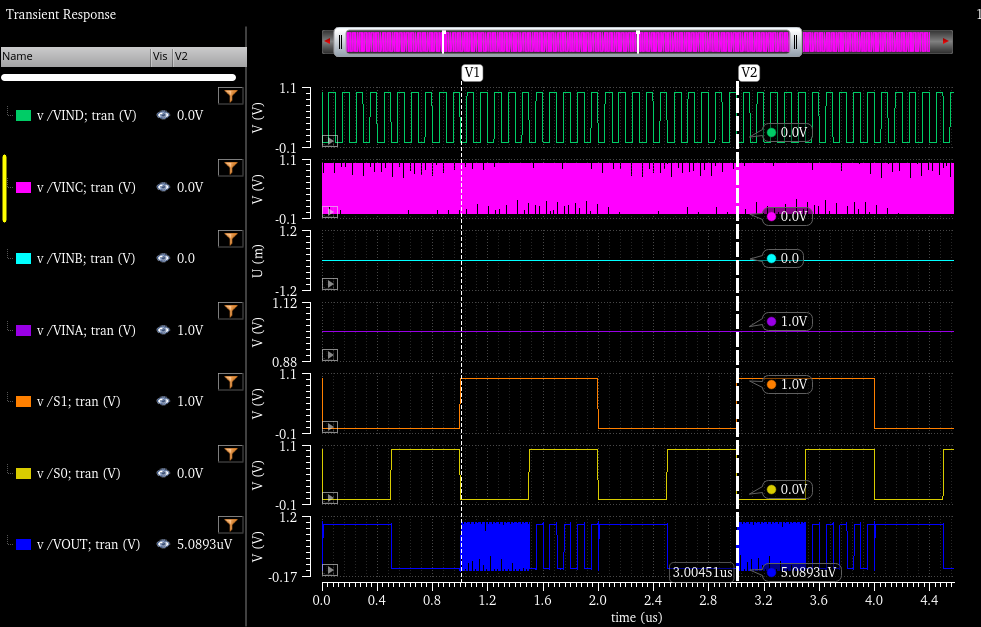
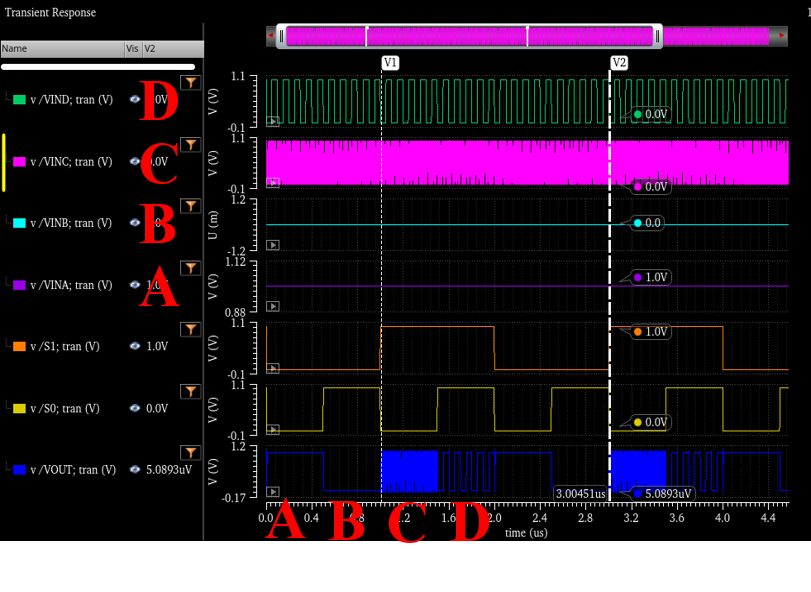
21mux

diff --git a/md/md_DC/41mux.md b/md/md_DC/41mux.md
@@ -1,0 +1,102 @@
+### 1. 4x1 MUX Logic & Switch
+
+<small>[1.1. 4x1 MUX Schematic](#11-4x1-mux-schematic)</small>
+
+<small>[1.2. Simulation](#12-simulation)</small>
+
+<small>[1.3. 4x1 MUX Layout](#13-4x1-mux-layout)</small>
+
+---
+
+#### 1.1. 4x1 MUX Schematic
+
+cell view에서 이름은 각각 `4x1 MUX Logic`, `4x1 MUX Switch` Type은 `schematic`을 선택하고 회로도를 그린다.
+
+Logic은 3개의 2x1 MUX Logic Symbol을 가져와 구성한다.
+
+Switch는 1개의 NOT gate와 TR, 2x1 MUX Switch Symbol로 구성한다.
+
+완성된 회로도는 다음 사진과 같다.
+
+<table>
+  <tr>
+    <td align="center">
+      <img src="./img/41mux_logic_01.png" width="600">
+    </td>
+    <td align="center">
+      <img src="./img/41mux_switch_01.png" width="600">
+    </td>
+  </tr>
+</table>
+
+`Create`의 `From Cellview`를 클릭하고, 각각 schematic에 대한 symbol을 생성한다.  
+
+<table>
+  <tr>
+    <td align="center">
+      <img src="./img/41mux_logic_02.png" width="600">
+    </td>
+    <td align="center">
+      <img src="./img/41mux_switch_02.png" width="600">
+    </td>
+  </tr>
+</table>
+
+
+#### 1.2. Simulation
+
+Symbol을 사용하여 TEST 파일을 만든다.
+
+이때, VINA = 1V, VINB = 0V와 VINC, VIND, S0, S1은 vpulse를 설정하여 VOUT의 ON OFF를 확인한다.
+
+`Launch`의 `ADE L`에서 Schematic에 대한 simulation을 진행한다.
+
+1. `Analyses`에서 입력한 vpulse 주기의 2~3배로 `Tran` 설정을 진행한다.
+
+2. `Results` - `Direct Plot` - `Main Form`에서 그래프 결과를 확인한다.
+
+3. vpulse ON-OFF에 따른 그래프 VOUT 결과를 확인한다
+
+다음과 같이 Logic과 Switch가 같은 그래프 ON-OFF를 보여주는 것을 확인한다.
+
+<img src="./img/41mux_logic_03.png" width="70%"> <br>
+
+
+#### 1.3. 4x1 MUX Layout
+
+각각의 Schematic을 기반으로 Layout을 진행한다. 
+
+먼저 `Options`의 `Display`에서 x와 y의 `Snap Spacing`을 `0.005`로 수정한다.
+
+전체 Layout은 다음과 같다.
+
+<table align="center">
+  <tr>
+    <td align="center">
+      <img src="./img/41mux_logic_04.png" width="80%">
+    </td>
+    <td align="center">
+      <img src="./img/41mux_switch_04.png" width="80%">
+    </td>
+  </tr>
+</table>
+
+가로 세로 사이즈는 최소화한다.
+
+**Logic Size** : 13.63 * 7.4(um)
+
+**Switch Size** : 6.52 * 8.055(um)
+
+2x1 MUX보다 4x1 MUX에서 Logic:Switch 면적 비율이 더 넓어진다.
+
+
+
+마지막으로 Cadence에서 제공하는 Assura 도구로 Schematic과 Layout에 대한 오류를 확인한다.
+  -1. `Assura`에서 `DRC(Design Rule Check)`를 진행한다. DRC는 gpdk090을 기준으로 제조 공정 규칙을 준수하는지 확인한다.
+  -2. `Assura`에서 `LVS(Layout Versus Schematic)`를 진행한다. Schematic과 Layout 간의 회로 연결 및 설계 오류가 없는지 확인한다.
+
+
+---
+
+[목차](../../README.md)
+

diff --git a/md/how2make_digitcircuit.md b/md/how2make_digitcircuit.md
@@ -29,11 +29,13 @@
 
 - [4-1. 2x1 MUX Logic & Switch](./md_DC/21mux.md)
 
-<!-- - [4-2. 4x1 MUX Logic & Switch](./md_DC/how2make_3nor.md)
+- [4-2. 4x1 MUX Logic & Switch](./md_DC/41mux.md)
 
-- [4-3. 8x1 MUX Logic & Switch](./md_DC/how2make_4nor.md)
+<!-- - [4-3. 8x1 MUX Logic & Switch](./md_DC/how2make_4nor.md)
 
 - [4-3. 16x1 MUX Logic & Switch](./md_DC/how2make_4nor.md) -->
 
 
 ---
+
+[이전](../README.md)
